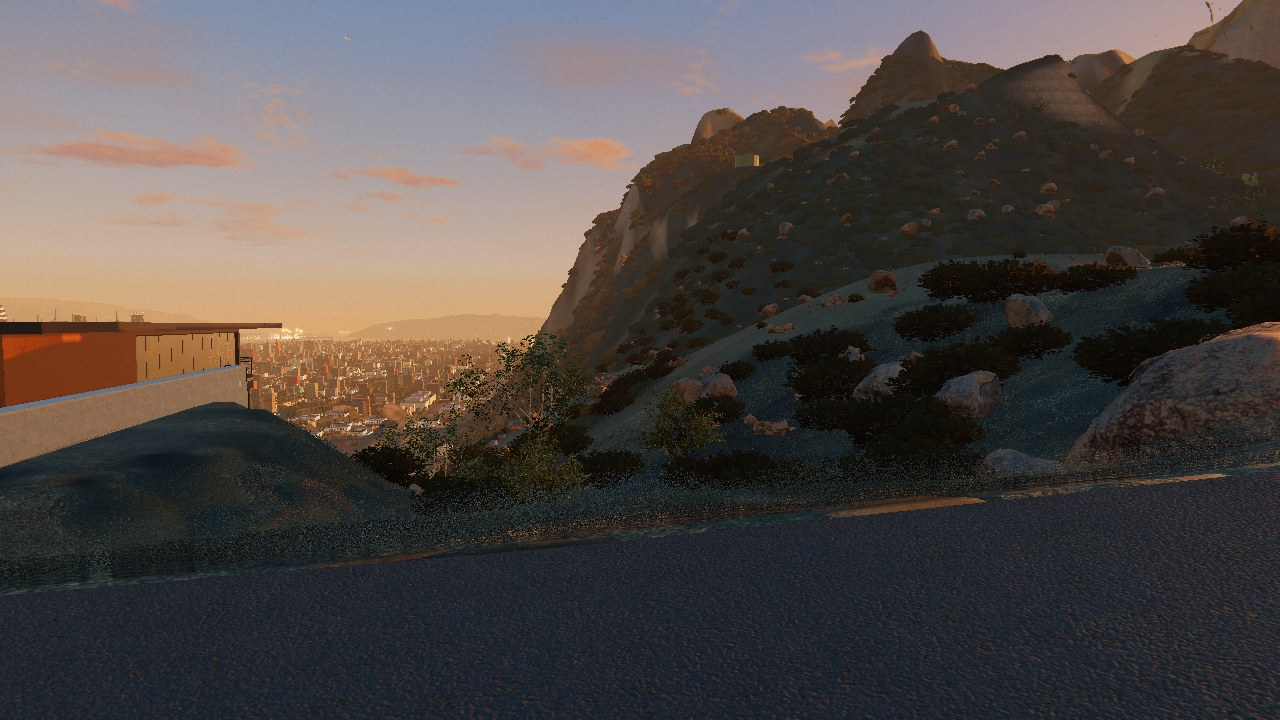
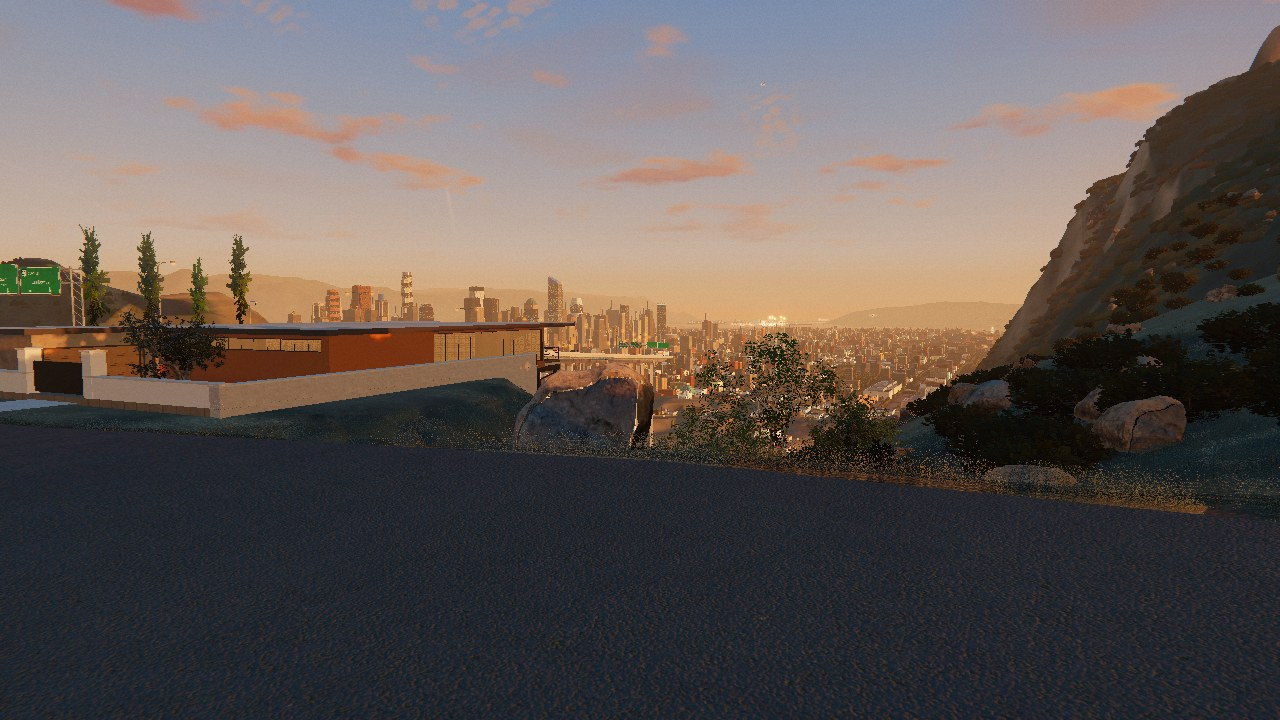
rc2-canyon-road: before / after at the new eye, along the road

diff --git a/README.md b/README.md
@@ -1,6 +1,13 @@
 # rc2-canyon-road stills
 
-Refcam `canyon_road` (tools/refcams/cameras_w5.json): a front-range switchback at 1.7 m, 17:40 clear,
-looking south over the basin past a hill home. opengl3 (Compatibility) through refcams.py.
+Refcam `canyon_road` (tools/refcams/cameras_w5.json): a front-range switchback (Switchback 35), eye
+1.7 m over the uphill lane at (545, -1927.6) looking SSE down the road, 17:40 clear: the road, the
+guardrail on the fill side, a hill home, chaparral, downtown in the smog. opengl3 (Compatibility)
+through refcams.py (occlusion culling off: see the HANDOFF section on the engine hang).
 
-- `01_before_canyon_road.jpg` - main (build 402+), the before.
+- `01_before_canyon_road.jpg` - main (CANYON_ROAD=0): a plain tiled strip, no markings, a hard edge,
+  pale boulders sat on the bank like eggs.
+- `02_after_canyon_road.jpg` - the canyon road: worn double yellow, white edge lines, sealed joints,
+  a gravel shoulder, a W-beam guardrail on timber posts along the drop, boulders gathered and bedded.
+- `03_along_the_road_before_after.jpg` - small scene (hill_ground_shot), looking along the
+  switchback: before (top), after (bottom).
